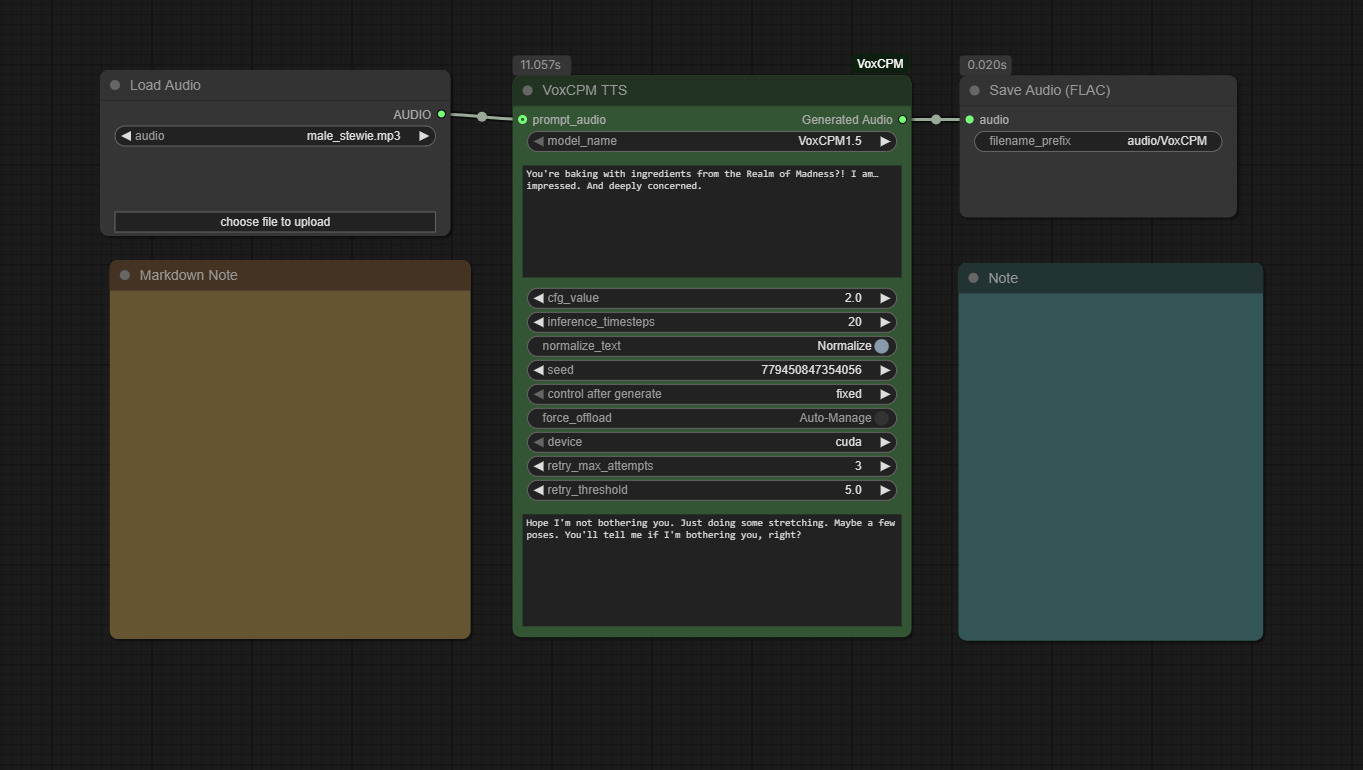
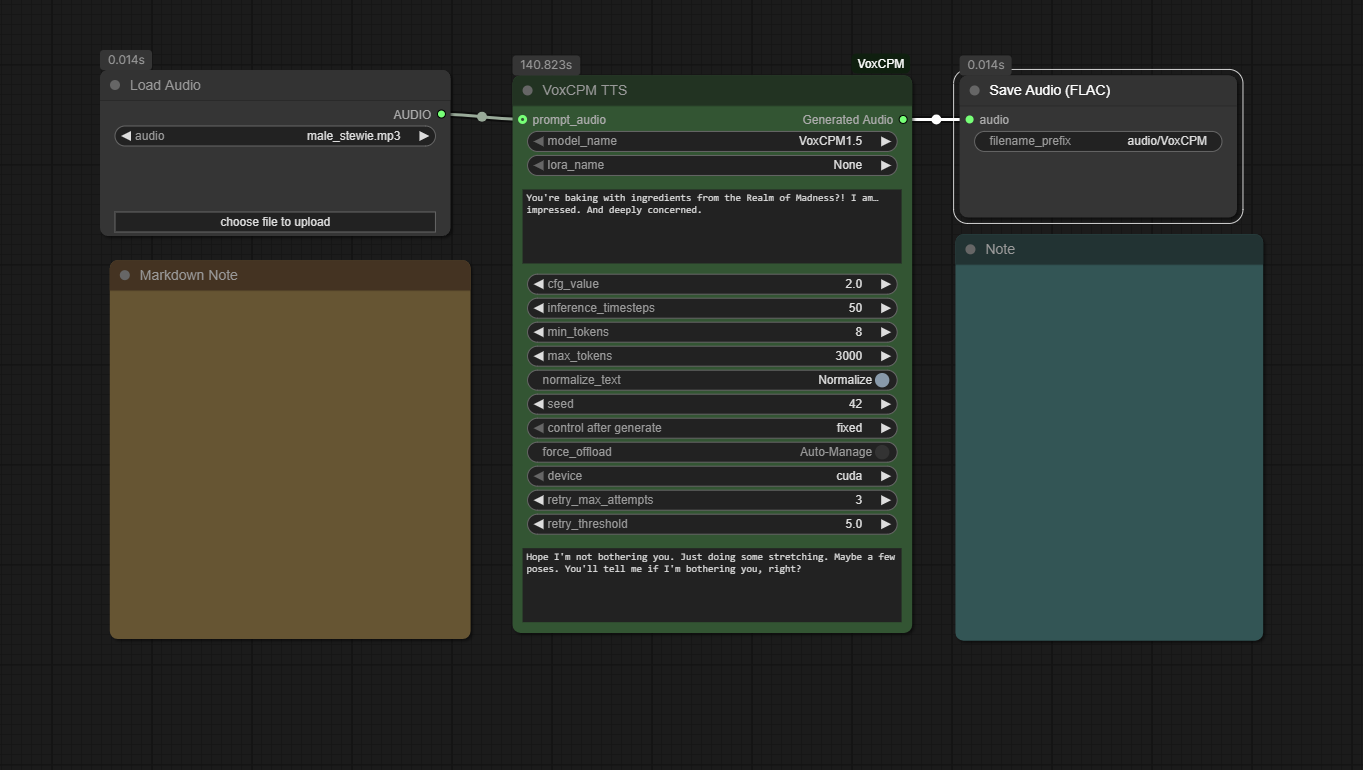
v1.6.0 lora support, fixes

diff --git a/voxcpm_nodes.py b/voxcpm_nodes.py
@@ -6,6 +6,7 @@ import os
 import soundfile as sf
 from typing import cast, List, Optional
 
+import folder_paths
 import comfy.model_management as model_management
 from comfy_api.latest import ComfyExtension, io, ui
 
@@ -61,19 +62,24 @@ class VoxCPMNode(io.ComfyNode):
 
         available_devices = get_available_devices()
         default_device = available_devices[0]
+        
+        lora_list = ["None"] + folder_paths.get_filename_list("loras")
 
         return io.Schema(
             node_id="VoxCPM_TTS",
             display_name="VoxCPM TTS",
             category=cls.CATEGORY,
-            description="Generate speech or clone voices using the VoxCPM model (v1.5).",
+            description="Generate speech or clone voices using the VoxCPM model (v1.5) with LoRA support.",
             inputs=[
                 io.Combo.Input("model_name", options=model_names, default=model_names[0], tooltip="Select the VoxCPM model to use."),
+                io.Combo.Input("lora_name", options=lora_list, default="None", tooltip="Select a LoRA to apply for style/fine-tuning. Requires model initialization with matching rank (default r=32)."),
                 io.String.Input("text", multiline=True, default="VoxCPM is an innovative TTS model designed to generate highly expressive speech.", tooltip="Text to synthesize. Each line is processed as a separate chunk."),
                 io.Audio.Input("prompt_audio", optional=True, tooltip="Reference audio for voice cloning."),
                 io.String.Input("prompt_text", multiline=True, optional=True, tooltip="The transcript of the reference audio. Required for voice cloning."),
                 io.Float.Input("cfg_value", default=2.0, min=1.0, max=10.0, step=0.1, tooltip="Guidance scale. Higher values adhere more to the prompt but may sound less natural."),
                 io.Int.Input("inference_timesteps", default=10, min=1, max=100, step=1, tooltip="Number of diffusion steps. Higher values may improve quality but are slower."),
+                io.Int.Input("min_tokens", default=2, min=1, max=100, tooltip="Minimum length of generated audio tokens."),
+                io.Int.Input("max_tokens", default=2048, min=64, max=8192, tooltip="Maximum length of generated audio tokens."),
                 io.Boolean.Input("normalize_text", default=True, label_on="Normalize", label_off="Raw", tooltip="Enable text normalization (recommended for general text)."),
                 io.Int.Input("seed", default=-1, min=-1, max=0xFFFFFFFFFFFFFFFF, tooltip="Seed for reproducibility. -1 for random."),
                 io.Boolean.Input("force_offload", default=False, label_on="Force Offload", label_off="Auto-Manage", tooltip="Force the model to be offloaded from VRAM after generation."),
@@ -90,10 +96,13 @@ class VoxCPMNode(io.ComfyNode):
     def execute(
         cls,
         model_name: str,
+        lora_name: str,
         device: str,
         text: str,
         cfg_value: float,
         inference_timesteps: int,
+        min_tokens: int,
+        max_tokens: int,
         normalize_text: bool,
         seed: int,
         force_offload: bool,
@@ -104,7 +113,6 @@ class VoxCPMNode(io.ComfyNode):
     ) -> io.NodeOutput:
         
         is_cloning = prompt_audio is not None
-        
         if is_cloning and prompt_text is None:
             raise ValueError("Prompt text is required when providing prompt audio for voice cloning.")
 
@@ -127,12 +135,29 @@ class VoxCPMNode(io.ComfyNode):
             VOXCPM_PATCHER_CACHE[cache_key] = patcher
         
         patcher = VOXCPM_PATCHER_CACHE[cache_key]
-        
         model_management.load_model_gpu(patcher)
         voxcpm_model = patcher.model.model
 
         if not voxcpm_model:
             raise RuntimeError(f"Failed to load VoxCPM model '{model_name}'. Check logs for details.")
+
+        #  LoRA
+        if lora_name != "None":
+            lora_path = folder_paths.get_full_path("loras", lora_name)
+            if not lora_path:
+                raise FileNotFoundError(f"LoRA file not found: {lora_name}")
+            
+            # Note: We load every time to ensure the selected LoRA is active.
+            # Maybe Optimization: could check if current LoRA is already loaded, but safe to reload.
+            try:
+                # logger.info(f"Loading LoRA: {lora_name}")
+                voxcpm_model.load_lora(lora_path)
+                voxcpm_model.set_lora_enabled(True)
+            except Exception as e:
+                raise RuntimeError(f"Failed to load LoRA '{lora_name}'. Ensure model was initialized with compatible LoRA config (default r=32). Error: {e}")
+        else:
+            # Disable LoRA layers if None selected
+            voxcpm_model.set_lora_enabled(False)
 
         set_seed(seed)
         enable_retry = retry_max_attempts > 0
@@ -143,12 +168,8 @@ class VoxCPMNode(io.ComfyNode):
         if is_cloning:
             if isinstance(prompt_audio, dict) and 'waveform' in prompt_audio and 'sample_rate' in prompt_audio:
                 prompt_waveform = prompt_audio['waveform']
-                
                 if prompt_waveform.dim() == 3:
                     prompt_waveform = prompt_waveform[0]
-                elif prompt_waveform.dim() == 2:
-                    pass
-                
                 prompt_sample_rate = prompt_audio['sample_rate']
                 
                 if prompt_waveform.numel() == 0:
@@ -164,17 +185,17 @@ class VoxCPMNode(io.ComfyNode):
                 prompt_sample_rate=prompt_sample_rate,
                 cfg_value=cfg_value,
                 inference_timesteps=inference_timesteps,
+                min_len=min_tokens,
+                max_len=max_tokens,
                 normalize=normalize_text,
                 retry_badcase=enable_retry,
                 retry_badcase_max_times=retry_max_attempts,
                 retry_badcase_ratio_threshold=retry_threshold,
-                denoise=False # Explicitly disable denoiser for Tensor inputs
+                denoise=False
             )
 
             output_tensor = torch.from_numpy(wav_array).float().unsqueeze(0).unsqueeze(0)
-            
-            output_sr = voxcpm_model.tts_model.sample_rate
-            
+            output_sr = voxcpm_model.tts_model.sample_rate 
             output_audio = {"waveform": output_tensor, "sample_rate": output_sr}
 
             logger.info("Audio generation complete.")

diff --git a/src/voxcpm/core.py b/src/voxcpm/core.py
@@ -26,6 +26,7 @@ class VoxCPM:
             lora_config: LoRA configuration for fine-tuning.
             lora_weights_path: Path to pre-trained LoRA weights.
         """
+        # If lora_weights_path is provided but no lora_config, create a default one
         if lora_weights_path is not None and lora_config is None:
             lora_config = LoRAConfig(
                 enable_lm=True,
@@ -36,20 +37,24 @@ class VoxCPM:
         
         self.tts_model = VoxCPMModel.from_local(voxcpm_model_path, optimize=optimize, lora_config=lora_config)
         
+        # Load LoRA weights if path is provided
+        # todo: add logger
         if lora_weights_path is not None:
-            print(f"[ComfyUI-VoxCPM] Loading LoRA weights from: {lora_weights_path}")
+            # print(f"[ComfyUI-VoxCPM] Loading LoRA weights from: {lora_weights_path}")
             loaded_keys, skipped_keys = self.tts_model.load_lora_weights(lora_weights_path)
-            print(f"[ComfyUI-VoxCPM] Loaded {len(loaded_keys)} LoRA parameters, skipped {len(skipped_keys)}")
+            # print(f"[ComfyUI-VoxCPM] Loaded {len(loaded_keys)} LoRA parameters, skipped {len(skipped_keys)}")
         
         self.text_normalizer = None
         
+        # Denoiser handling: largely disabled for ComfyUI to keep dependencies light
+        # unless specifically requested and available.
         self.denoiser = None
         if enable_denoiser and zipenhancer_model_path is not None:
             try:
                 from .zipenhancer import ZipEnhancer
                 self.denoiser = ZipEnhancer(zipenhancer_model_path)
             except ImportError:
-                print("[ComfyUI-VoxCPM] Warning: ZipEnhancer dependencies not found. Denoiser disabled.")
+                # print("[ComfyUI-VoxCPM] Warning: ZipEnhancer dependencies not found. Denoiser disabled.")
                 self.denoiser = None
 
         if optimize:
@@ -74,9 +79,12 @@ class VoxCPM:
         if not repo_id:
             raise ValueError("You must provide hf_model_id")
         
+        # Load from local path if provided
+        # todo: align with comfy codebase
         if os.path.isdir(repo_id):
             local_path = repo_id
         else:
+            # Otherwise, try from_pretrained (Hub); exit on failure
             local_path = snapshot_download(
                 repo_id=repo_id,
                 cache_dir=cache_dir,

diff --git a/src/voxcpm/model/voxcpm.py b/src/voxcpm/model/voxcpm.py
@@ -311,7 +311,9 @@ class VoxCPMModel(nn.Module):
             audio_mask = torch.zeros(text_length).type(torch.int32).to(text_token.device)
 
         else:
-            text = prompt_text + target_text
+            # Need to test: Only use target_text to avoid repeating the prompt. Gives better output
+            text = target_text 
+            
             text_token = torch.LongTensor(self.text_tokenizer(text))
             text_token = torch.cat(
                 [
@@ -323,6 +325,7 @@ class VoxCPMModel(nn.Module):
             text_length = text_token.shape[0]
 
             # ComfyUI Modification: Load from tensor if available, else path
+            # ... do not like path stuff
             if prompt_waveform is not None:
                 audio = prompt_waveform.clone()
                 sr = prompt_sample_rate
@@ -532,7 +535,8 @@ class VoxCPMModel(nn.Module):
         else:
             prompt_audio_feat = prompt_cache["audio_feat"]
             prompt_text = prompt_cache["prompt_text"]
-            text = prompt_text + target_text
+            # again: Do not append prompt_text to target_text
+            text = target_text 
         
         text_token = torch.LongTensor(self.text_tokenizer(text))
         text_token = torch.cat(
@@ -818,9 +822,10 @@ class VoxCPMModel(nn.Module):
             ckpt_file = lora_path if lora_path.suffix in [".ckpt", ".pth"] else None
         
         if safetensors_file and safetensors_file.exists() and SAFETENSORS_AVAILABLE:
-            state_dict = load_file(str(safetensors_file), device=device)
+            # Load to CPU first to avoid device incompatibility in safetensors loading
+            state_dict = load_file(str(safetensors_file), device="cpu")
         elif ckpt_file and ckpt_file.exists():
-            ckpt = torch.load(ckpt_file, map_location=device, weights_only=False)
+            ckpt = torch.load(ckpt_file, map_location="cpu", weights_only=False)
             state_dict = ckpt.get("state_dict", ckpt)
         else:
             raise FileNotFoundError(

diff --git a/modules/loader.py b/modules/loader.py
@@ -5,8 +5,9 @@ from huggingface_hub import snapshot_download
 
 import folder_paths
 
-# Import the VoxCPM library from the src directory
+# Import the VoxCPM library and config
 from ..src.voxcpm.core import VoxCPM
+from ..src.voxcpm.model.voxcpm import LoRAConfig
 from .model_info import AVAILABLE_VOXCPM_MODELS
 
 logger = logging.getLogger(__name__)
@@ -70,10 +71,22 @@ class VoxCPMLoader:
              raise RuntimeError(f"Could not determine path for model '{model_name}'")
 
         logger.info("Instantiating VoxCPM model...")
+        
+        # Create default LoRA config to initialize layers for hot-swapping
+        # Using standard defaults: r=32, alpha=16
+        default_lora_config = LoRAConfig(
+            enable_lm=True,
+            enable_dit=True,
+            enable_proj=False,
+            r=32,
+            alpha=16
+        )
+
         model_instance = VoxCPM(
             voxcpm_model_path=voxcpm_path,
             enable_denoiser=False, 
-            optimize=False 
+            optimize=False,
+            lora_config=default_lora_config
         )
 
         LOADED_MODELS_CACHE[model_name] = model_instance

diff --git a/modules/patcher.py b/modules/patcher.py
@@ -34,6 +34,7 @@ class VoxCPMPatcher(comfy.model_patcher.ModelPatcher):
             self.model.model = VoxCPMLoader.load_model(self.model.model_name)
 
         self.model.model.tts_model.to(target_device)
+        # logger.info(f"VoxCPM model moved to {target_device}.")
 
         return super().patch_model(device_to=target_device, *args, **kwargs)
 
@@ -42,15 +43,18 @@ class VoxCPMPatcher(comfy.model_patcher.ModelPatcher):
         Called by ComfyUI's model manager to offload the model.
         """
         if unpatch_weights:
+            # logger.info(f"Offloading VoxCPM model...")
             if self.is_loaded:
                 try:
                     self.model.model.tts_model.to(self.offload_device)
                 except Exception:
                     pass
             
+            # Clear the reference to the model to allow garbage collection
             self.model.model = None
 
-
+            # The cache is managed in loader.py or explicit cleanup if needed.
+            
             gc.collect()
             model_management.soft_empty_cache()
 
